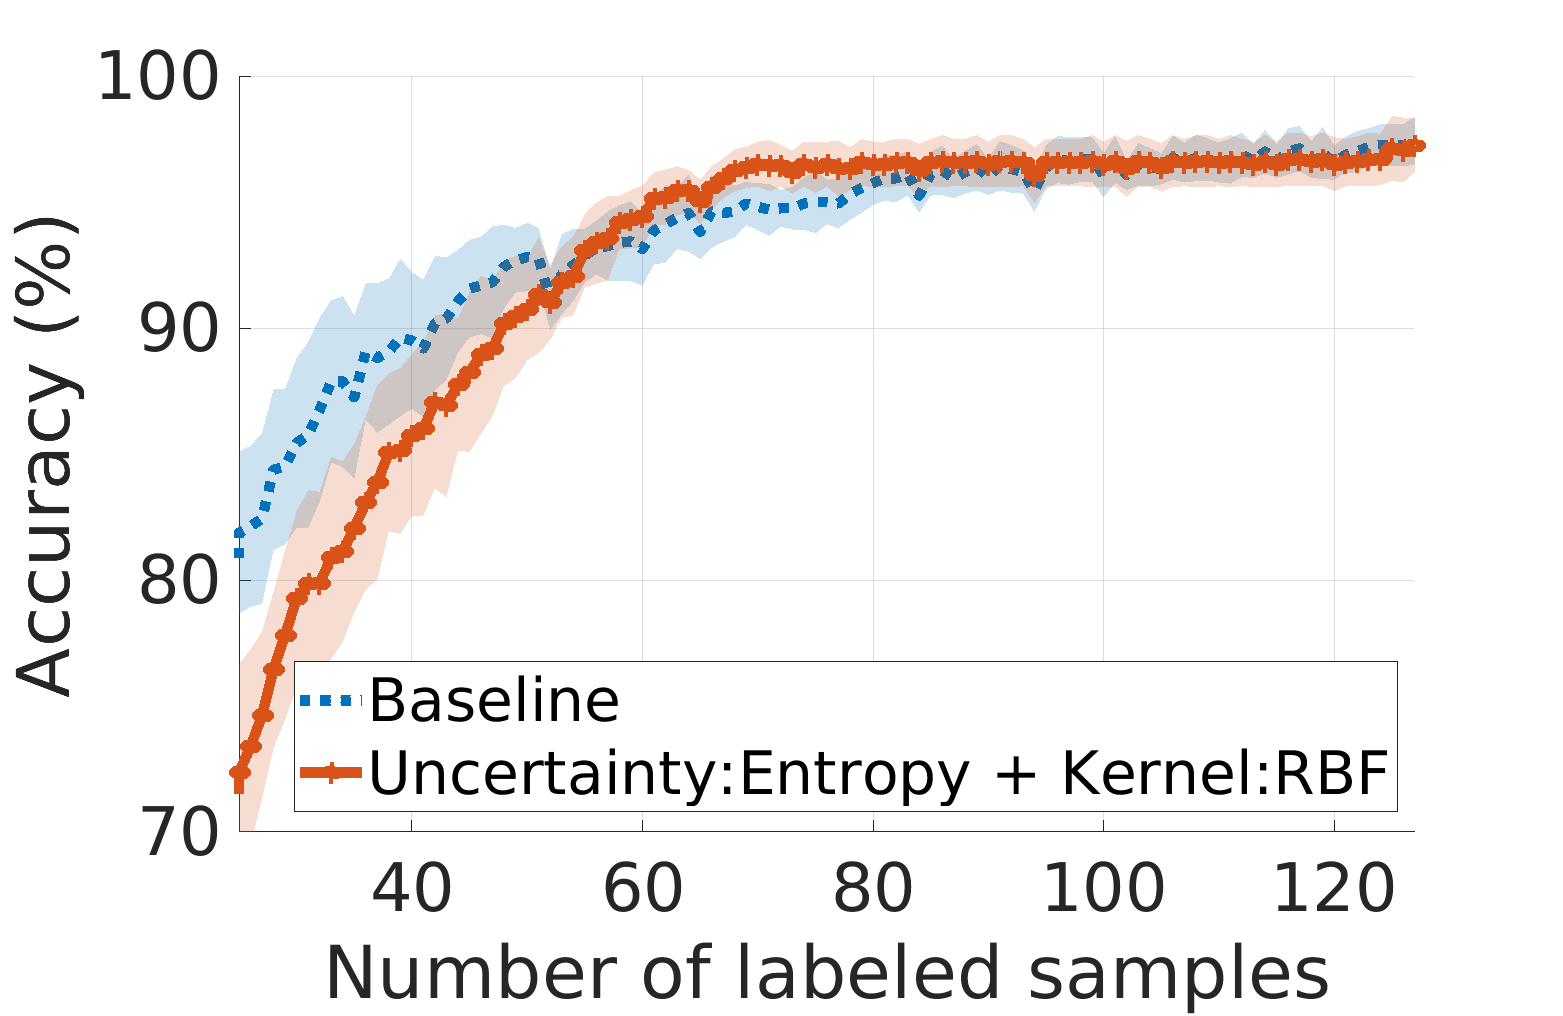
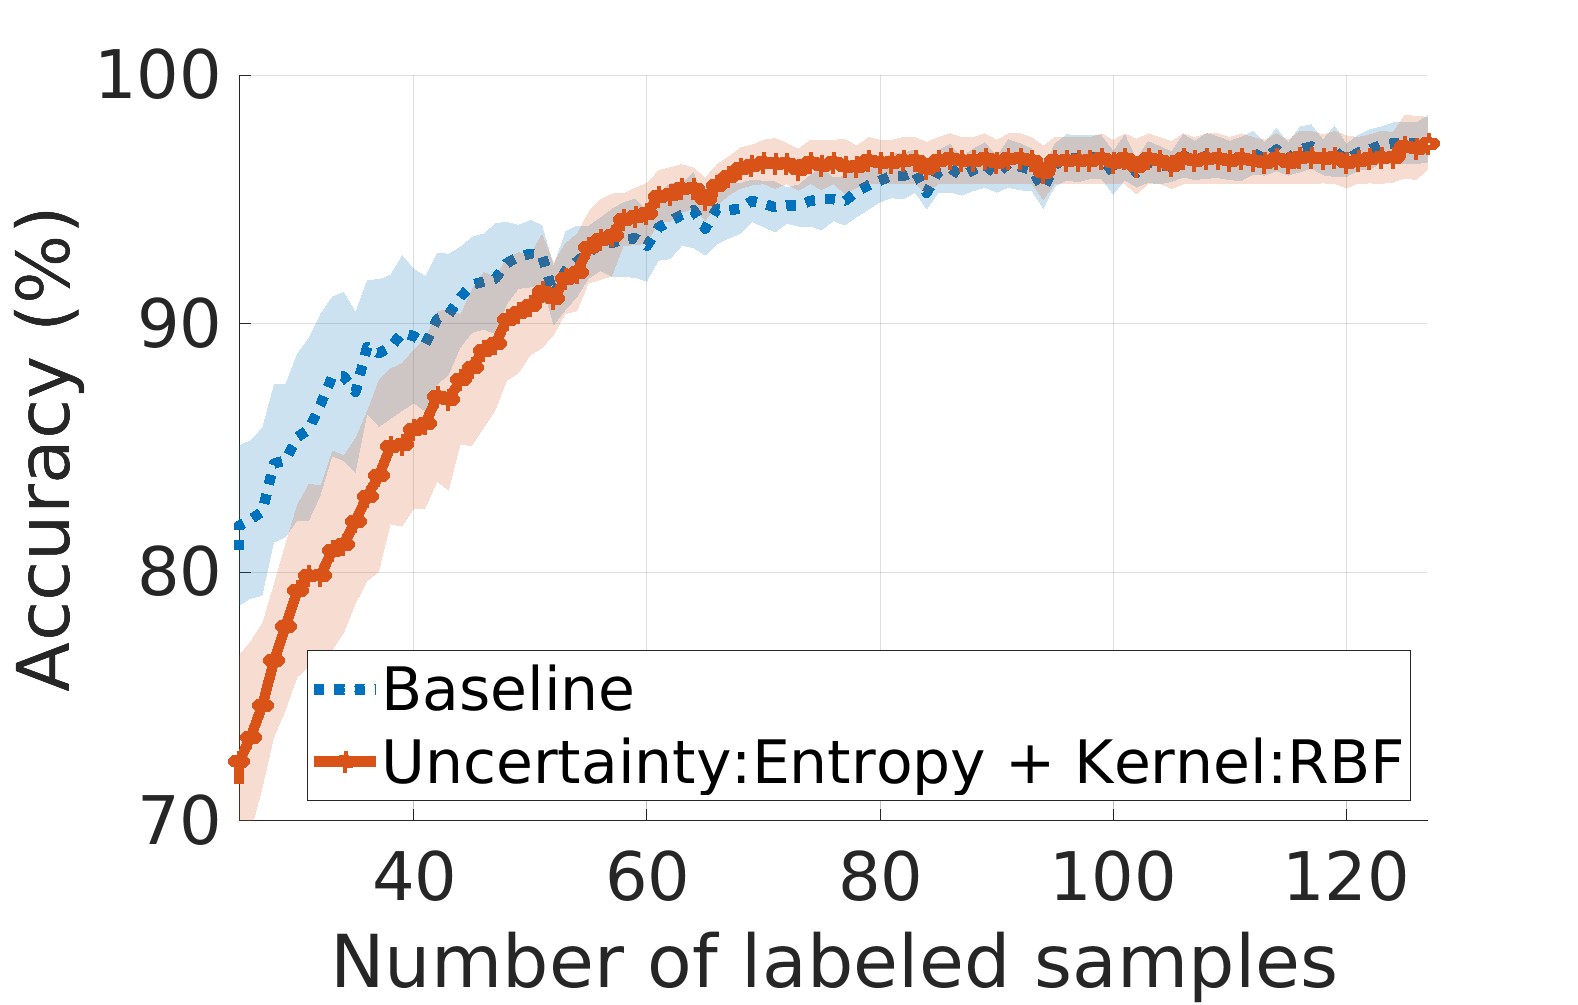
backup

diff --git a/Python/combine.py b/Python/combine.py
@@ -134,21 +134,54 @@ def run_cv(train_set, target):
             # add one sample
             print("\t #fold: {}/{}, #sample: {}/{}".format(fold_+1, n_fold, len(queried_index_set), end_n_sample))
 
-            target_copy = deepcopy(target)
-            target_copy[list(unqueried_index_set)] = -1
+            if semi_supervised_learning_query_strategy.split("_")[0].lower() == 'labelspread':
 
-            kernel = semi_supervised_learning_query_strategy.split("_")[1]
-            label_prop_model = LabelSpreading(kernel=kernel, gamma=0.1)
-            label_prop_model.fit(train_set.iloc[train_idx], target_copy[train_idx])
-            pred_label = label_prop_model.predict(train_set)
+                target_copy = deepcopy(target)
+                target_copy[list(unqueried_index_set)] = -1
 
-            pred_label[val_idx] = target[val_idx]
-            pred_label[list(queried_index_set)] = target[list(queried_index_set)]
+                label_prop_model = LabelSpreading(kernel=semi_supervised_learning_query_strategy.split("_")[1], gamma=0.1)
+                label_prop_model.fit(train_set.iloc[train_idx], target_copy[train_idx])
+                pred_label = label_prop_model.predict(train_set)
 
+                pred_label[val_idx] = target[val_idx]
+                pred_label[list(queried_index_set)] = target[list(queried_index_set)]
 
-            # model evaluation
-            train_data = lgb.Dataset(train_set.iloc[train_idx], label=pred_label[train_idx])
-            valid_data = lgb.Dataset(train_set.iloc[val_idx], label=pred_label[val_idx])
+            elif semi_supervised_learning_query_strategy.split("_")[0].lower() == 'selftrain':
+
+                # incrementally select data instances
+                queried_index_set_copy = deepcopy(queried_index_set)
+                unqueried_index_set_copy = deepcopy(unqueried_index_set)
+                target_copy = deepcopy(target)
+
+                while len(unqueried_index_set_copy) > 0 and len(queried_index_set_copy) <= end_n_sample:
+
+                    train_data = lgb.Dataset(train_set.iloc[list(queried_index_set_copy)],
+                                             label=target_copy[list(queried_index_set_copy)])
+                    valid_data = lgb.Dataset(train_set.iloc[val_idx], label=target_copy[val_idx])
+
+                    model = lgb.train(hyper_params[len(queried_index_set_copy)], train_data, valid_sets=[valid_data],
+                                      verbose_eval=False)
+
+                    sample_index = query_index(model=model, train_set=train_set,
+                                               queried_index_set=queried_index_set_copy,
+                                               unqueried_index_set=unqueried_index_set_copy,
+                                               query_strategy=semi_supervised_learning_query_strategy, target=target_copy,
+                                               val_idx=val_idx, hyper_params=hyper_params)
+
+                    target_copy[sample_index] = np.argmax(np.squeeze(model.predict(train_set.iloc[sample_index])))
+                    unqueried_index_set_copy.remove(sample_index)
+                    queried_index_set_copy.add(sample_index)
+
+            if semi_supervised_learning_query_strategy.split("_")[0].lower() == 'labelspread':
+
+                train_data = lgb.Dataset(train_set.iloc[train_idx], label=pred_label[train_idx])
+                valid_data = lgb.Dataset(train_set.iloc[val_idx], label=pred_label[val_idx])
+
+            elif semi_supervised_learning_query_strategy.split("_")[0].lower() == 'selftrain':
+
+                train_data = lgb.Dataset(train_set.iloc[list(queried_index_set_copy)],
+                                         label=target_copy[list(queried_index_set_copy)])
+                valid_data = lgb.Dataset(train_set.iloc[val_idx], label=target_copy[val_idx])
 
             model = lgb.train(hyper_params[end_n_sample], train_data, valid_sets=[valid_data], verbose_eval=False)
 

diff --git a/Matlab/combine_uncertainty_labelspread.m b/Matlab/combine_uncertainty_labelspread.m
@@ -10,8 +10,8 @@ line_spec = {':', 'o-', '+-', '-.', '^-'};
 % al = Active Learning
 
 al_strategies = struct( ...
-    'random_eem_multi', 'Baseline', ...
-    'uncertainty_entropy_selfTrain_random_eem_multi', 'Uncertainty:Entropy + Self-Train:Random');
+    'random', 'Baseline', ...
+    'uncertainty_entropy_labelSpread_rbf', 'Uncertainty:Entropy + Kernel:RBF');
 
 data_file_prefix = '../Python/Result/';
 data_file_suffix = '.csv';
@@ -48,17 +48,17 @@ for k = 1:numel(fields)
      
 end
 
-hleg = legend(aline, my_legend, 'location', 'south', 'fontsize', 24);
+hleg = legend(aline, my_legend, 'location', 'southeast');
 %set(hleg, 'box', 'off')
 
 set(gca, 'fontsize', 32, 'ygrid', 'on', 'xgrid', 'on')
-xlim([25, 127])
-ylim([70, 100])
+xlim([40, 90])
+ylim([60, 100])
 xlabel('Number of labeled samples')
 ylabel('Accuracy (%)')
-% xticks(10:10:90)
+xticks(10:10:90)
 yticks(20:10:100)
-% title('Combined')
+%title('Hybrid')
 hold off
 
-saveas(gcf, './Image/combine_eem_multi_uncertainty_selftrain.png')
+saveas(gcf, './Image/combine_uncertainty_labelspread.png')

diff --git a/Matlab/combine_uncertainty_selftrain.m b/Matlab/combine_uncertainty_selftrain.m
@@ -11,7 +11,7 @@ line_spec = {':', 'o-', '+-', '-.', '^-'};
 
 al_strategies = struct( ...
     'random', 'Baseline', ...
-    'uncertainty_entropy_labelSpread_rbf', 'Uncertainty:Entropy + Kernel:RBF');
+    'uncertainty_entropy_selfTrain_random', 'Uncertainty:Entropy + Self-Train:Random');
 
 data_file_prefix = '../Python/Result/';
 data_file_suffix = '.csv';
@@ -48,7 +48,7 @@ for k = 1:numel(fields)
      
 end
 
-hleg = legend(aline, my_legend, 'location', 'southeast');
+hleg = legend(aline, my_legend, 'location', 'south', 'fontsize', 24);
 %set(hleg, 'box', 'off')
 
 set(gca, 'fontsize', 32, 'ygrid', 'on', 'xgrid', 'on')
@@ -61,4 +61,4 @@ yticks(20:10:100)
 %title('Hybrid')
 hold off
 
-saveas(gcf, './Image/combine.png')
+saveas(gcf, './Image/combine_uncertainty_selftrain.png')

diff --git a/README.md b/README.md
@@ -117,7 +117,7 @@ We use random sampling as the baseline.
 
 ## Combine Active Learning and Semi-supervised Learning
 
-1. Plasma. Run `Python/combine.py uncertainty_entropy labelSpread_rbf`. Results are saved to `Result/uncertainty_entropy_labelSpread_rbf.csv`.
+1. Plasma. Run `Python/combine.py uncertainty_entropy [labelSpread_rbf|selfTrain_random]`. Results are saved to `Result/uncertainty_entropy_[labelSpread_rbf|selfTrain_random].csv`.
 
 2. EEM
 
